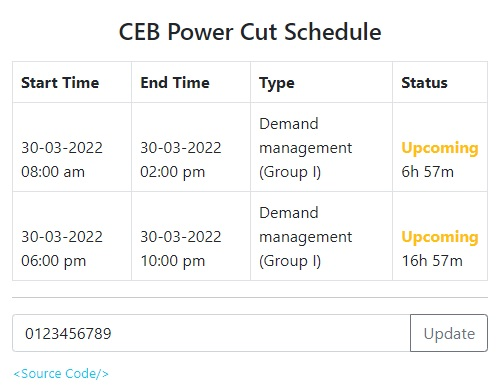
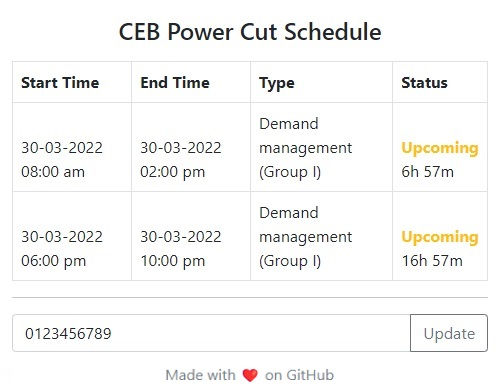
Update URL

diff --git a/src/popup.html b/src/popup.html
@@ -34,12 +34,12 @@
             </tbody>
         </table>
         <hr />
-        <div class="input-group mb-2">
+        <div class="input-group mb-3">
             <input id="txtAccNo" type="number" class="form-control" placeholder="Account Number" aria-label="Account Number" aria-describedby="button-addon">
             <button id="button-addon" class="btn btn-outline-secondary" type="button">Update</button>
         </div>
-        <div class="mb-2">
-            <a href="https://github.com/bandaranayake/ceb-power-cut-schedule-extension" class="link-info text-decoration-none" target="_blank">&lt;Source Code/&gt;</a>
+        <div class="mb-3 d-flex justify-content-center">
+            <a href="https://github.com/bandaranayake/ceb-power-cut-schedule-extension" class="link-secondary text-decoration-none" target="_blank">Made with ❤ on GitHub</a>
         </div>
     </div>
 </body>
